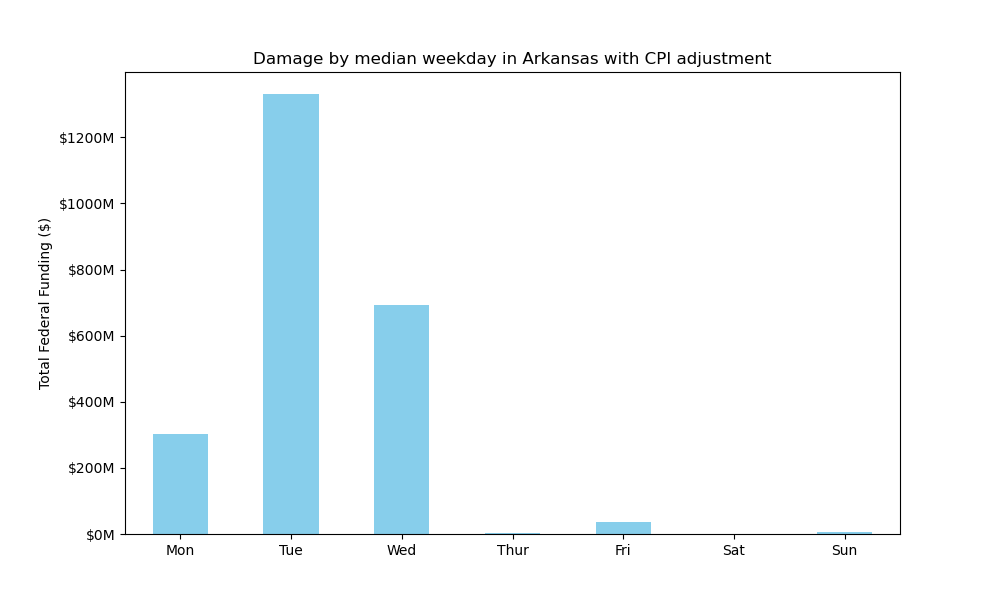
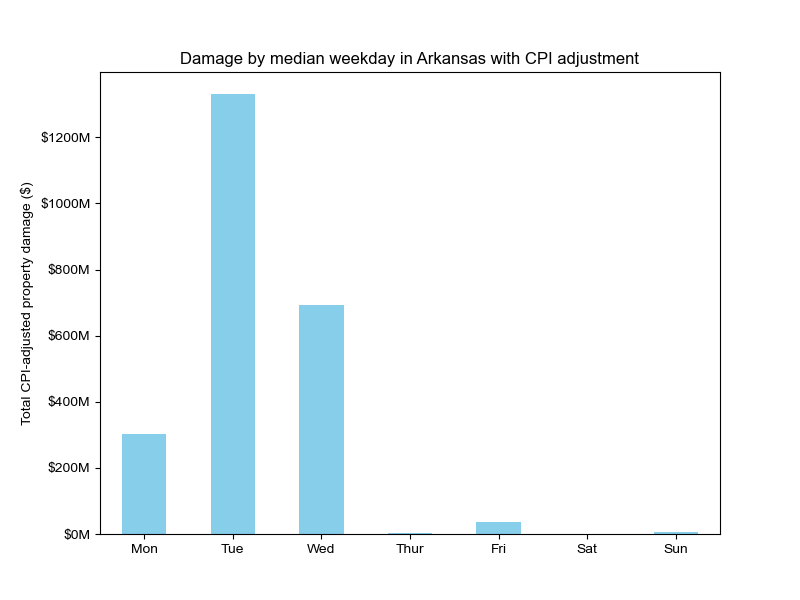
stats and scaling

diff --git a/Correlation Plots/aa_correlation.py b/Correlation Plots/aa_correlation.py
@@ -9,19 +9,24 @@ dir = os.path.dirname(os.path.abspath(__file__))
 
 df = pd.read_csv(dir+'\\master.csv')
 
-DMG = np.array(df['DMGCP'])
-ELEV = np.array(df['ELEV'])
+VAR_NAME = 'POP2010'
+Var_Name = 'Population (2010)'
+units = ''
+grouping = 'Total'
+
+DMG = np.array(df['DMGCP2010'])
+ELEV = np.array(df[VAR_NAME])
 
 fig, ax1 = plt.subplots(figsize = (5, 5))
 slope, intercept, r, p, se = linregress(DMG, ELEV)
 ax1.scatter(DMG, ELEV, s=5, color='k')
-ax1.set_xlabel('Total CPI-adjusted Property Damage ($)')
-ax1.set_xticks(np.linspace(0, 400000000, 5))
+ax1.set_xlabel('Total CPI-adjusted Property Damage 2005-2015 ($)')
+ax1.set_xticks(np.linspace(0, 90000000, 5))
 xticks = ax1.get_xticks()
 ax1.set_xticklabels([f'${x/1e6:.0f}M' for x in xticks])
-ax1.set_ylabel('Mean Elevation (m)')
-plt.text(85000000, -50, 'p-value={:.3f}   R2={:.3f}   slope={:.3f}'.format(p,r**2,slope), fontsize=8)
+ax1.set_ylabel(grouping+' '+Var_Name+' '+units+'')
+plt.text(15000000, -70000, 'p-value={:.3f}   R2={:.3f}   slope={:.3f}'.format(p,r**2,slope), fontsize=8)
 plt.plot(DMG,(slope*DMG)+intercept,'b-.')
 plt.grid()
 plt.tight_layout()
-plt.savefig(dir+'\\Correlation Plots\\Damage versus Elevation.png')
+plt.savefig(dir+'\\Correlation Plots\\Damage versus '+Var_Name+'.png')

diff --git a/ee_weekday.py b/ee_weekday.py
@@ -40,12 +40,12 @@ funding_by_weekday = df.groupby(['MEDIAN WEEKDAY'])['DAMAGE_PROPERTY_CPI'].sum()
 
 funding_by_weekday = funding_by_weekday.loc[weekday_order]
 
-fig, ax1 = plt.subplots(figsize = (10, 6))
+fig, ax1 = plt.subplots(figsize = (8, 6))
 funding_by_weekday.plot(kind='bar',color='skyblue',ax=plt.gca())
 ax1.set_xticks(range(len(weekdays)))
 ax1.set_xticklabels(weekdays)
 plt.title('Damage by median weekday in Arkansas with CPI adjustment')
-plt.ylabel('Total Federal Funding ($)')
+plt.ylabel('Total CPI-adjusted property damage ($)')
 plt.xticks(rotation=0)
 plt.xlabel('')
 yticks = ax1.get_yticks()

diff --git a/Correlation Plots/bb_correlation_table.py b/Correlation Plots/bb_correlation_table.py
@@ -58,3 +58,19 @@ for year in years:
 
 df1 = df1.T
 df1.to_csv(dir+'\\Correlation Plots\\correlation.csv')
+
+
+df2 = df.select_dtypes(include='number')
+
+mean = df2.mean()
+std_dev = df2.std()
+min_val = df2.min()
+max_val = df2.max()
+stats_df = pd.DataFrame({
+    'mean': mean,
+    'standard deviation': std_dev,
+    'min': min_val,
+    'max': max_val
+})
+stats_df.index.name = 'Factors'
+stats_df.to_csv(dir+'\\master_stats.csv')

diff --git a/MASTER.py b/MASTER.py
@@ -66,3 +66,11 @@ for county in county_names:
     df.loc[county,'ELEV'] = round(elev.loc[county,'mean'],3)
 
 df.to_csv(dir+'\\master.csv',index=True)
+
+
+from sklearn.preprocessing import StandardScaler
+scaler = StandardScaler()
+scaled_data = scaler.fit_transform(df)
+scaled_df = pd.DataFrame(scaled_data, columns=df.columns, index=df.index)
+
+scaled_df.to_csv(dir+'\\master_scaled.csv',index=True)
